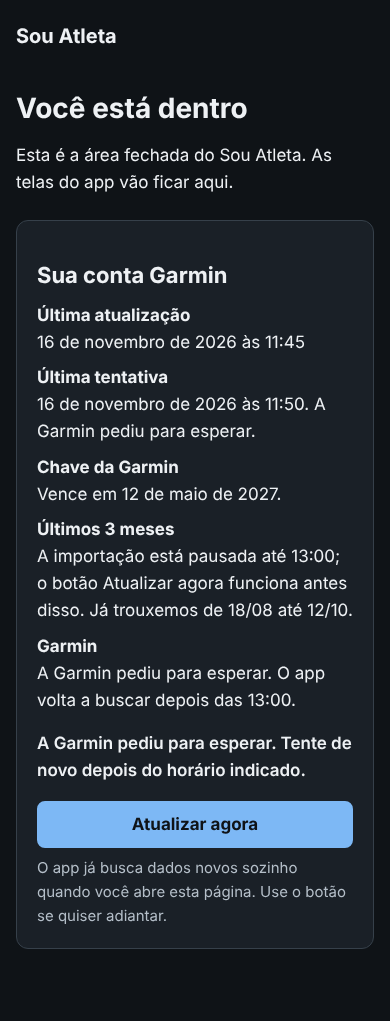
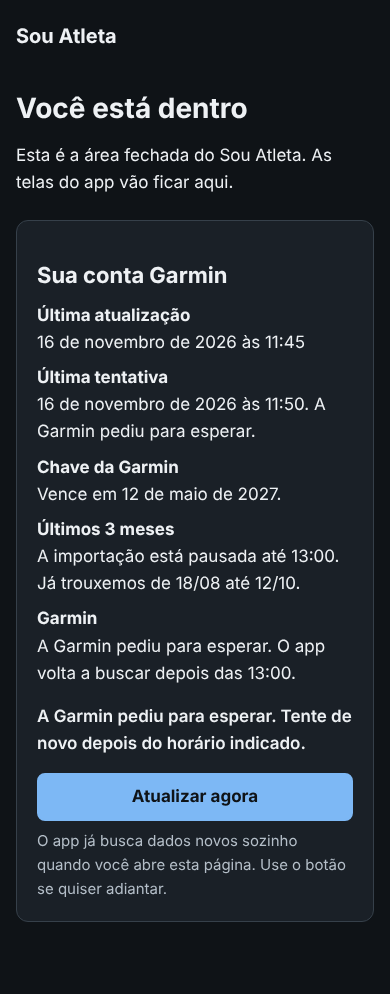
Prints atualizados: pausa por 429, botao Atualizando e itens que ficaram de fora
Claude-Session: https://claude.ai/code/session_019ZrQk3riixoyYxcNjiAm8A

diff --git a/README.md b/README.md
@@ -1,1 +1,1 @@
-Prints do PR da issue #5 (quadro "Sua conta Garmin" e botao "Atualizar agora"), 18 estados, celular 390 px e desktop 1100 px, claro e escuro (72 imagens). Geradas do componente real com o CSS real; axe sem violacoes nas 72 paginas. Branch so de provas; nao deve ser mesclada na main.
+Prints do PR da issue #5 (quadro "Sua conta Garmin" e botao "Atualizar agora"), 19 estados, celular 390 px e desktop 1100 px, claro e escuro (76 imagens). Geradas do componente real com o CSS real; axe sem violacoes nas 72 paginas. Branch so de provas; nao deve ser mesclada na main.
